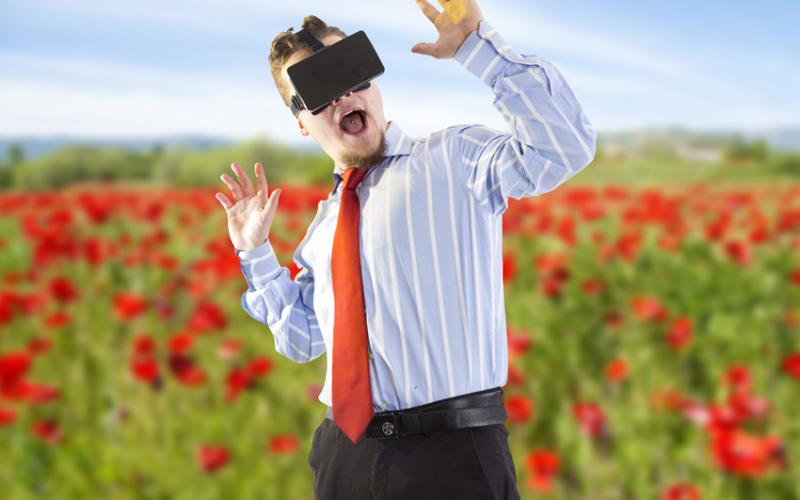
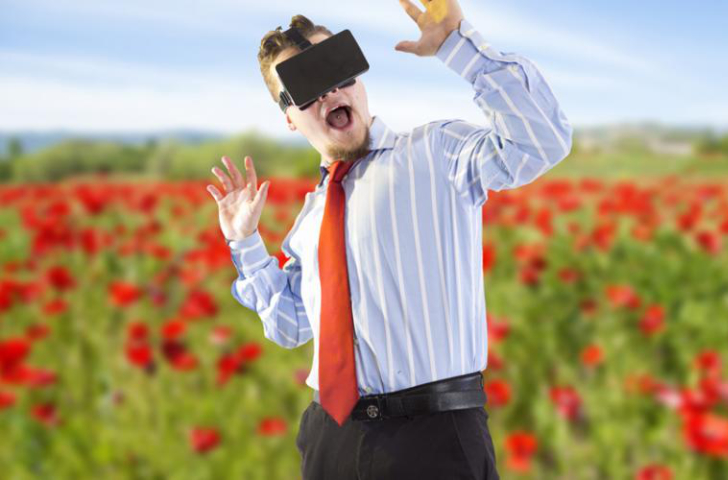
Draft carousel

diff --git a/public/js/index.js b/public/js/index.js
@@ -1,3 +1,23 @@
 $(() => {
   console.log("helloooo");
+
+  // Carousel
+  const images = [
+    "images/VR1.jpg",
+    "images/VR2.jpg",
+    "images/VR3.jpg",
+    "images/VR4.jpg",
+    "images/VR5.jpg",
+    "images/VR6.jpg"
+  ];
+  let currentImageIndex = 0;
+  setInterval(() => {
+    currentImageIndex++;
+    if (currentImageIndex === images.length) currentImageIndex = 0;
+    $image = $("#carousel-image");
+    $image.fadeOut(el => {
+      $image.attr("src", images[currentImageIndex]);
+      $image.fadeIn();
+    });
+  }, 5000);
 });

diff --git a/index.html b/index.html
@@ -29,8 +29,8 @@
     </nav>
   </header>
 
-  <section class="features" id="carousel">
-
+  <section id="carousel">
+    <img id="carousel-image" src="images/VR1.jpg" />
   </section>
 
   <section class="features">

diff --git a/public/css/style.css b/public/css/style.css
@@ -27,3 +27,11 @@ header {
 #title-head {
   font-size: 2em;
   margin-bottom: 5px; }
+
+#carousel {
+  width: 100vw;
+  height: 100%; }
+
+#carousel-image {
+  display: block;
+  width: 100%; }

diff --git a/scss/style.scss b/scss/style.scss
@@ -35,3 +35,13 @@ header {
   font-size: 2em;
   margin-bottom: 5px;
 }
+
+#carousel {
+  width: 100vw;
+  height: 100%;
+}
+
+#carousel-image {
+  display: block;
+  width: 100%;
+}
